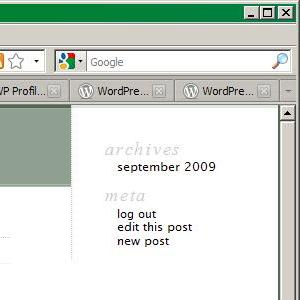
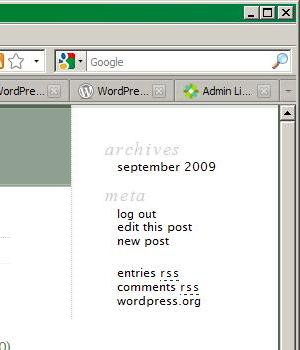
tagging version 1.1
git-svn-id: https://plugins.svn.wordpress.org/enhanced-meta-widget/trunk@152648 b8457f37-d9ea-0310-8a92-e5e31aec5664

diff --git a/enhanced-meta-widget.php b/enhanced-meta-widget.php
@@ -93,19 +93,19 @@ class meta_enhanced extends WP_Widget { //extends the base widget class
        * This section displays only when an administrator is logged in
       */
 			if ($user_level == 10) { ?>
-      	</ul>
-      	<br />
-      	<ul>
-      	<?php	
-        if ($display_dashboard) {?>
-      	 	<li><a href="<?php bloginfo('wpurl'); ?>/wp-admin">Site Admin</a></li>
+				</ul>
+				<br />
+				<ul>
+				<?php	
+				if ($display_dashboard) {?>
+					<li><a href="<?php bloginfo('wpurl'); ?>/wp-admin">Site Admin</a></li>
 				<?php }
 				if ($display_manposts) {?>
 					<li><a href="<?php bloginfo('wpurl'); ?>/wp-admin/edit.php">Manage Posts</a></li>
-        <?php }
+				<?php }
 				if ($display_mandrafts) {?>
 					<li><a href="<?php bloginfo('wpurl'); ?>/wp-admin/edit.php?post_status=draft">Manage Drafts</a></li>
- 				<?php }
+				<?php }
 				if ($display_medialib) {?>
 					<li><a href="<?php bloginfo('wpurl'); ?>/wp-admin/upload.php">Media Library</a></li>
 				<?php }
@@ -135,21 +135,22 @@ class meta_enhanced extends WP_Widget { //extends the base widget class
 				<?php }
 				if ($display_settings) {?>
 					<li><a href="<?php bloginfo('wpurl'); ?>/wp-admin/options-general.php">Settings</a></li>
-          <br />
-				<?php }
-        if ($display_entrss) {?>
-        <li><a href="<?php bloginfo('rss2_url'); ?>" title="<?php echo esc_attr(__('Syndicate this site using RSS 2.0')); ?>"><?php _e('Entries <abbr title="Really Simple Syndication">RSS</abbr>'); ?></a></li>
-				<?php }
-        if ($display_commrss) {?>
-        <li><a href="<?php bloginfo('comments_rss2_url'); ?>" title="<?php echo esc_attr(__('The latest comments to all posts in RSS')); ?>"><?php _e('Comments <abbr title="Really Simple Syndication">RSS</abbr>'); ?></a></li>
-				<?php }
-        if ($display_wplink) {?>
-        <li><a href="http://wordpress.org/" title="<?php echo esc_attr(__('Powered by WordPress, state-of-the-art semantic personal publishing platform.')); ?>">WordPress.org</a></li>
         <?php }
 			} // ends if user is admin sub-section
-				?>
-			</ul>
-			<?php echo $after_widget;
+			?>
+			<br />
+			<?php
+			if ($display_entrss) {?>
+				<li><a href="<?php bloginfo('rss2_url'); ?>" title="<?php echo esc_attr(__('Syndicate this site using RSS 2.0')); ?>"><?php _e('Entries <abbr title="Really Simple Syndication">RSS</abbr>'); ?></a></li>
+			<?php }
+			if ($display_commrss) {?>
+				<li><a href="<?php bloginfo('comments_rss2_url'); ?>" title="<?php echo esc_attr(__('The latest comments to all posts in RSS')); ?>"><?php _e('Comments <abbr title="Really Simple Syndication">RSS</abbr>'); ?></a></li>
+			<?php }
+			if ($display_wplink) {?>
+				<li><a href="http://wordpress.org/" title="<?php echo esc_attr(__('Powered by WordPress, state-of-the-art semantic personal publishing platform.')); ?>">WordPress.org</a></li>
+				</ul>
+			<?php }
+			echo $after_widget;
 		} // ends if user logged in section
 		/*
 		 * This Section displays the login-in form if a user is not logged in
@@ -172,10 +173,12 @@ class meta_enhanced extends WP_Widget { //extends the base widget class
         <li><a href="<?php bloginfo('comments_rss2_url'); ?>" title="<?php echo esc_attr(__('The latest comments to all posts in RSS')); ?>"><?php _e('Comments <abbr title="Really Simple Syndication">RSS</abbr>'); ?></a></li>
 				<?php }
         if ($display_wplink) {?>
-        <li><a href="http://wordpress.org/" title="<?php echo esc_attr(__('Powered by WordPress, state-of-the-art semantic personal publishing platform.')); ?>">WordPress.org</a></li></ul>
+        <li><a href="http://wordpress.org/" title="<?php echo esc_attr(__('Powered by WordPress, state-of-the-art semantic personal publishing platform.')); ?>">WordPress.org</a></li>
 				<?php if ($display_entrss || $display_commrss || $display_wplink) { ?>
         </ul> <!-- ends ul after the logged-out user options -->
-        <?php } 
+        <?php }
+        //echo $before_widget;
+        echo '<br />';
         echo $before_title . 'Log In' . $after_title;
         ?>
 				<form method="post" action="<?php echo get_bloginfo('wpurl'); ?>/wp-login.php" id="ale_loginform" name="loginform">
